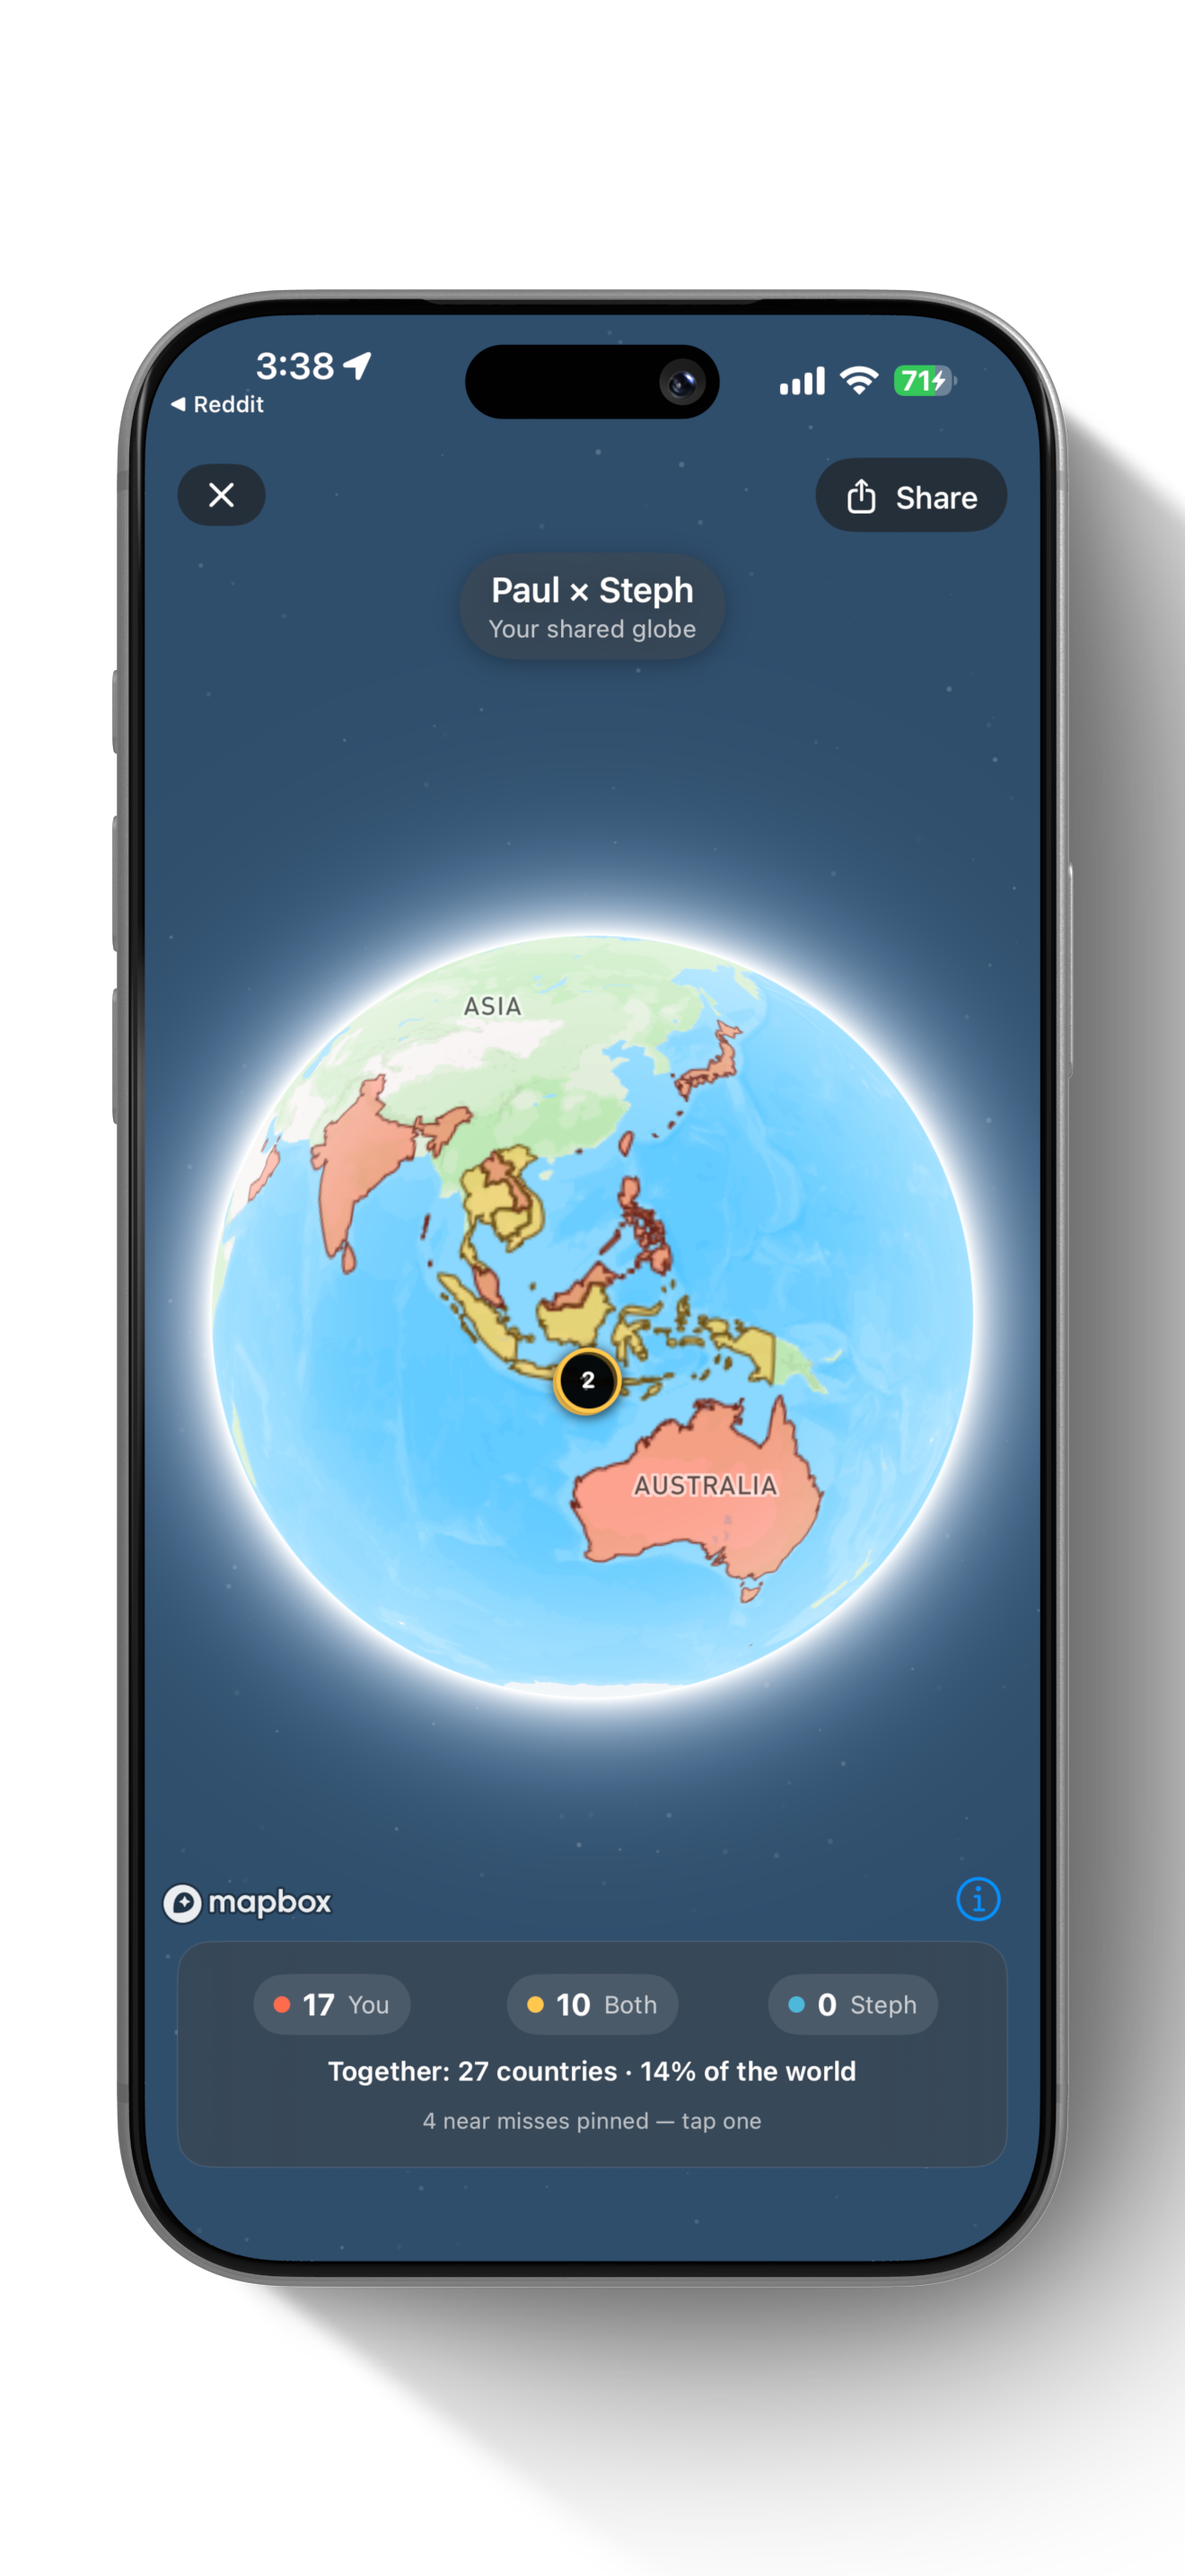
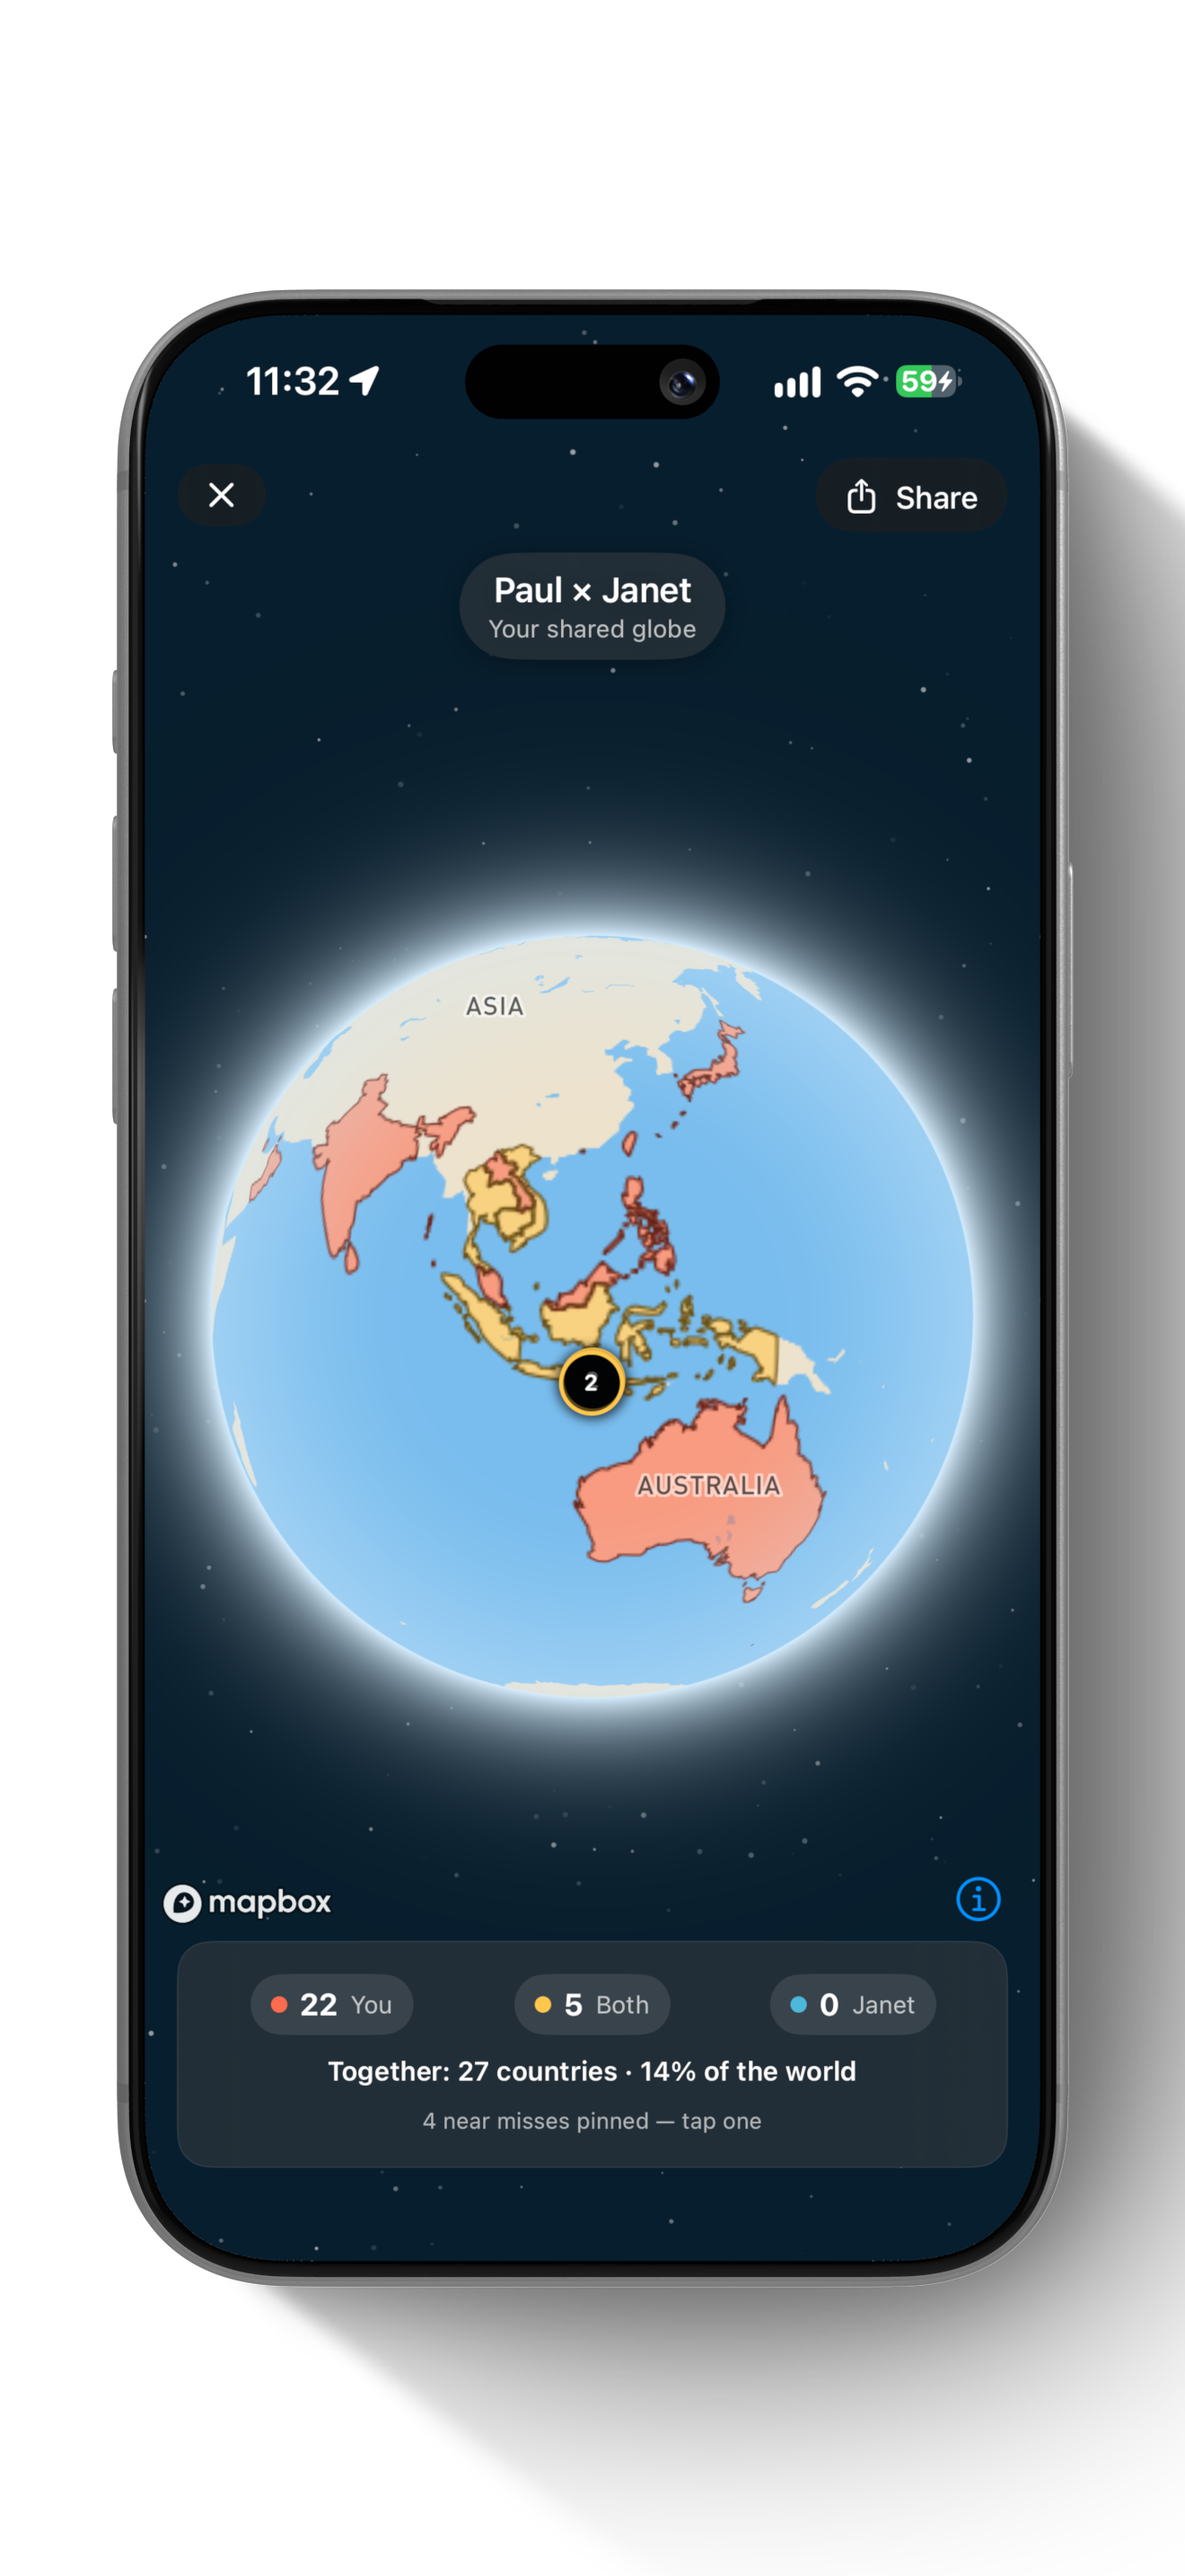
feat: stats section, new compare shots, drop the competitor line
- New STOP 08 "Every country you've been to, in one place." for Trip
  Statistics, built from the existing duo/polaroid/bullets/stats
  components. Stops after it renumber 09/10/11.
- Compare copy was wrong: the phones find each other over peer-to-peer
  Bonjour (CompareTransport.swift), the QR code is only the fallback.
  Rewritten to match the in-app line, "Bring your phones together".
  Pair flipped right now that 08 holds the left slot.
- New transparent Rotato renders for stats + both compare sides.
- Dropped the "playback that only exists while an app is open" jab in
  the sound section, and the matching "slideshow locked inside an app"
  in the hero lead — no longer positioning against a competitor.
- Video heading: "This is what comes out." → "Here's one, start to
  finish."

Still pending: a transparent-background export of the new globe+lock
privacy shot, to replace assets/screens/privacy.png.

diff --git a/index.html b/index.html
@@ -490,7 +490,7 @@ footer{background:var(--paper-2);border-top:1px solid var(--paper-3);padding:44p
       <div class="hero reveal">
         <div class="label">The output</div>
         <h1>You already shot <br>the footage. <br>Roamango cuts it.</h1>
-        <p class="lead">Ten years of trips are sitting in your camera roll as raw material — thousands of frames, no edit. Roamango finds the journeys inside them, picks the shots worth keeping, and renders a proper travel film — a real video, not a slideshow locked inside an app.</p>
+        <p class="lead">Ten years of trips are sitting in your camera roll as raw material — thousands of frames, no edit. Roamango finds the journeys inside them, picks the shots worth keeping, and renders a proper travel film — a real video file, yours to keep and post anywhere.</p>
         <div class="hero-cta">
           <a href="https://apps.apple.com/app/roamango-your-trips-filmed/id6788371735" class="btn btn-primary" target="_blank" rel="noopener">
             <svg viewBox="0 0 384 512" aria-hidden="true"><path d="M318.7 268.7c-.2-36.7 16.4-64.4 50-84.8-18.8-26.9-47.2-41.7-84.7-44.6-35.5-2.8-74.3 20.7-88.5 20.7-15 0-49.4-19.7-76.4-19.7C63.3 141.2 4 184.8 4 273.5q0 39.3 14.4 81.2c12.8 36.7 59 126.7 107.2 125.2 25.2-.6 43-17.9 75.8-17.9 31.8 0 48.3 17.9 76.4 17.9 48.6-.7 90.4-82.5 102.6-119.3-65.2-30.7-61.7-90-61.7-91.9zm-56.6-164.2c27.3-32.4 24.8-61.9 24-72.5-24.1 1.4-52 16.4-67.9 34.9-17.5 19.8-27.8 44.3-25.6 71.9 26.1 2 49.9-11.4 69.5-34.3z"/></svg>
@@ -519,7 +519,7 @@ footer{background:var(--paper-2);border-top:1px solid var(--paper-3);padding:44p
   <section class="theatre" id="watch">
     <div class="theatre-inner reveal">
       <div class="label">The two-minute tour</div>
-      <h2>This is what comes out.</h2>
+      <h2>Here's one, start to finish.</h2>
       <p class="lead">The app finding your trips, and the roams it renders from them — several destinations, several map themes, every frame straight off the phone.</p>
       <div class="player r169 dim" data-src="https://media.roamango.co/hero.mp4" style="margin-top:32px">
         <img class="poster" src="assets/posters/hero-16x9.jpg" alt="" width="1920" height="1080" loading="lazy" decoding="async">
@@ -669,7 +669,7 @@ footer{background:var(--paper-2);border-top:1px solid var(--paper-3);padding:44p
       <div class="reveal">
         <div class="label">Why it's shareable</div>
         <h2>A soundtrack that's allowed to leave the app.</h2>
-        <p class="lead">Roamango's soundtracks are royalty-free and cleared for you to reuse, so the film that comes out is genuinely yours to post. That's the difference between a video you own and a playback that only exists while an app is open.</p>
+        <p class="lead">Roamango's soundtracks are royalty-free and cleared for you to reuse, so the film that comes out is genuinely yours to post — a finished video in your camera roll, music and all, ready for wherever you're putting it.</p>
         <p class="lead">Or record your own narration straight over the roam as it plays — the music ducks under your voice automatically.</p>
         <ul class="bullets">
           <li><svg viewBox="0 0 24 24" aria-hidden="true"><path d="M20 6L9 17l-5-5"/></svg><span>Eight moods, from <b>tropical summer</b> to <b>city nights</b></span></li>
@@ -748,25 +748,56 @@ footer{background:var(--paper-2);border-top:1px solid var(--paper-3);padding:44p
     </div>
   </section>
 
-  <!-- ═══════════════ STOP 08 — CROSSED PATHS ═══════════════ -->
-  <section class="stop" id="compare">
+  <!-- ═══════════════ STOP 08 — THE RECEIPTS ═══════════════ -->
+  <section class="stop" id="stats">
     <div class="stop-head"><div class="node"></div><span class="stop-num">08</span></div>
 
     <div class="duo">
+      <div class="duo-media reveal">
+        <figure class="polaroid tilt-l">
+          <img src="assets/screens/stats.png" alt="The Trip Statistics screen: a globe with visited countries painted coral, above cards counting countries, distance travelled, photos and days exploring." width="1320" height="2868" loading="lazy" decoding="async">
+          <figcaption class="cap">the receipts</figcaption>
+        </figure>
+      </div>
+      <div class="reveal">
+        <div class="label">Everything, counted</div>
+        <h2>Every country you've been to, in one place.</h2>
+        <p class="lead">The same trips that become roams, read back as a record. Your own globe painted with the countries you've actually set foot in, the distance behind you, the days you spent away — and how much of the world is still waiting. Nothing to log and nothing to tick off: it was already in your camera roll.</p>
+        <ul class="bullets">
+          <li><svg viewBox="0 0 24 24" aria-hidden="true"><path d="M20 6L9 17l-5-5"/></svg><span>A globe painted with every country you've visited</span></li>
+          <li><svg viewBox="0 0 24 24" aria-hidden="true"><path d="M20 6L9 17l-5-5"/></svg><span>Continent by continent — and the ones <b>still waiting</b></span></li>
+          <li><svg viewBox="0 0 24 24" aria-hidden="true"><path d="M20 6L9 17l-5-5"/></svg><span>Longest trip, furthest from home, travelling since — worked out for you</span></li>
+          <li><svg viewBox="0 0 24 24" aria-hidden="true"><path d="M20 6L9 17l-5-5"/></svg><span>The whole thing shares as a card, in one tap</span></li>
+        </ul>
+        <div class="stats">
+          <div class="stat"><div class="num">27</div><div class="cap">Countries</div></div>
+          <div class="stat"><div class="num">115,689</div><div class="cap">km travelled</div></div>
+          <div class="stat"><div class="num">1,149</div><div class="cap">Days exploring</div></div>
+        </div>
+        <p class="hero-note" style="margin-top:28px"><span class="note"><span class="arrow">↘</span> 2.9× around the world, apparently.</span></p>
+      </div>
+    </div>
+  </section>
+
+  <!-- ═══════════════ STOP 09 — CROSSED PATHS ═══════════════ -->
+  <section class="stop" id="compare">
+    <div class="stop-head"><div class="node"></div><span class="stop-num">09</span></div>
+
+    <div class="duo flip">
       <div class="duo-media pair reveal">
         <figure class="polaroid tilt-l">
-          <img src="assets/screens/compare-1.png" alt="A shared globe on one phone: countries painted coral for you, teal for your friend, gold where you've both been, with combined stats underneath." width="1320" height="2868" loading="lazy" decoding="async">
+          <img src="assets/screens/compare-1.png" alt="Paul's phone after a compare: the shared globe with his 22 countries in coral, five in gold where both have been, and the totals underneath." width="1320" height="2868" loading="lazy" decoding="async">
           <figcaption class="cap">your side</figcaption>
         </figure>
         <figure class="polaroid tilt-r">
-          <img src="assets/screens/compare-2.png" alt="The same shared globe seen from the friend's phone, with the identity colours swapped to their side." width="1320" height="2868" loading="lazy" decoding="async">
+          <img src="assets/screens/compare-2.png" alt="The same shared globe on Janet's phone a moment later, with the identity colours swapped so Paul's countries read teal." width="1320" height="2868" loading="lazy" decoding="async">
           <figcaption class="cap">their side</figcaption>
         </figure>
       </div>
       <div class="reveal">
         <div class="label">Crossed paths</div>
         <h2>Compare your travels with a friend.</h2>
-        <p class="lead">Scan a friend's compare code and your two histories land on one shared globe — your countries in coral, theirs in teal, gold where you've both been. The summary moves straight between the two phones and never touches the internet.</p>
+        <p class="lead">Open Compare on both phones and hold them together. They find each other directly — no code, no account, nothing going online — and your two histories land on one shared globe: your countries in coral, theirs in teal, gold where you've both been. Everywhere you nearly crossed gets a pin.</p>
         <div class="stats">
           <div class="stat"><div class="num">27</div><div class="cap">Countries together</div></div>
           <div class="stat"><div class="num">14%</div><div class="cap">Of the world</div></div>
@@ -777,9 +808,9 @@ footer{background:var(--paper-2);border-top:1px solid var(--paper-3);padding:44p
     </div>
   </section>
 
-  <!-- ═══════════════ STOP 09 — PRIVACY, understated ═══════════════ -->
+  <!-- ═══════════════ STOP 10 — PRIVACY, understated ═══════════════ -->
   <section class="stop" id="privacy">
-    <div class="stop-head"><div class="node"></div><span class="stop-num">09</span></div>
+    <div class="stop-head"><div class="node"></div><span class="stop-num">10</span></div>
     <div class="duo">
       <div class="reveal">
         <div class="label">The boring part</div>
@@ -802,9 +833,9 @@ footer{background:var(--paper-2);border-top:1px solid var(--paper-3);padding:44p
     </div>
   </section>
 
-  <!-- ═══════════════ STOP 10 — SUPPORT ═══════════════ -->
+  <!-- ═══════════════ STOP 11 — SUPPORT ═══════════════ -->
   <section class="stop" id="support">
-    <div class="stop-head"><div class="node"></div><span class="stop-num">10</span></div>
+    <div class="stop-head"><div class="node"></div><span class="stop-num">11</span></div>
     <div class="reveal">
       <div class="label">Support</div>
       <h2>Stuck? Talk to a human.</h2>
